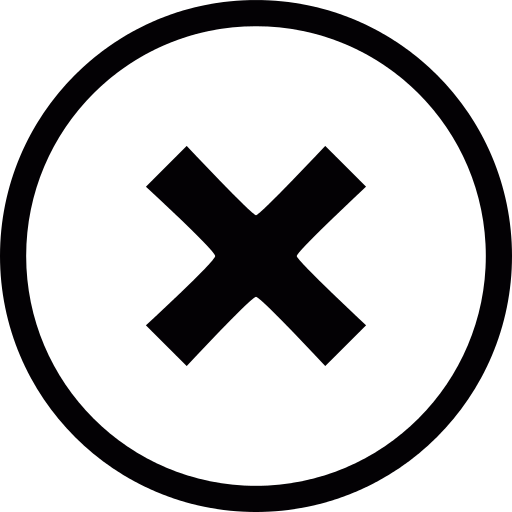
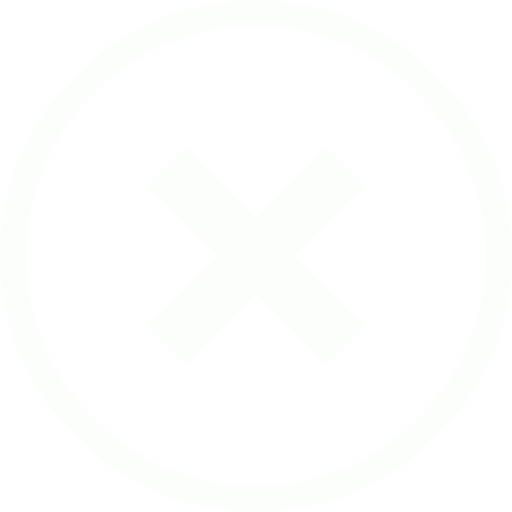
Changed Timer Buttons Design

Changed region(s): [[0.0, 0.0, 1.0, 1.0], [0.2812, 0.2812, 0.7188, 0.7188]]

diff --git a/App.tsx b/App.tsx
@@ -312,10 +312,10 @@ function RunningScreen(): React.JSX.Element {
       {isRunning && (
         <View style={styles.buttonContainer}>
           <TouchableOpacity style={styles.stopButton} onPress={handleStopPress}>
-            <Text style={styles.stopButtonText}>Stop</Text>
+            <Image source={require('./assets/Pause-Button.png')} style={styles.stopButtonImage} />
           </TouchableOpacity>
           <TouchableOpacity style={styles.cancelButton} onPress={handleCancelPress}>
-            <Text style={styles.cancelButtonText}>Cancel</Text>
+            <Image source={require('./assets/Cancel-Button.png')} style={styles.cancelButtonImage} />
           </TouchableOpacity>
         </View>
       )}
@@ -800,22 +800,21 @@ const styles = StyleSheet.create({
     marginTop: 20,
   },
   stopButton: {
-    backgroundColor: '#FFA500',
     paddingVertical: 10,
     paddingHorizontal: 20,
-    borderRadius: 5,
-    marginRight: 10,
   },
-  stopButtonText: {
-    color: '#fff',
-    fontSize: 18,
-    fontWeight: 'bold',
+  stopButtonImage: {
+    width: 51,
+    height: 51,
   },
   cancelButton: {
-    backgroundColor: '#f44336',
     paddingVertical: 10,
     paddingHorizontal: 20,
-    borderRadius: 5,
+  },
+  cancelButtonImage: {
+    width: 50,
+    height: 50,
+    marginLeft: -15,
   },
   cancelButtonText: {
     color: '#fff',
